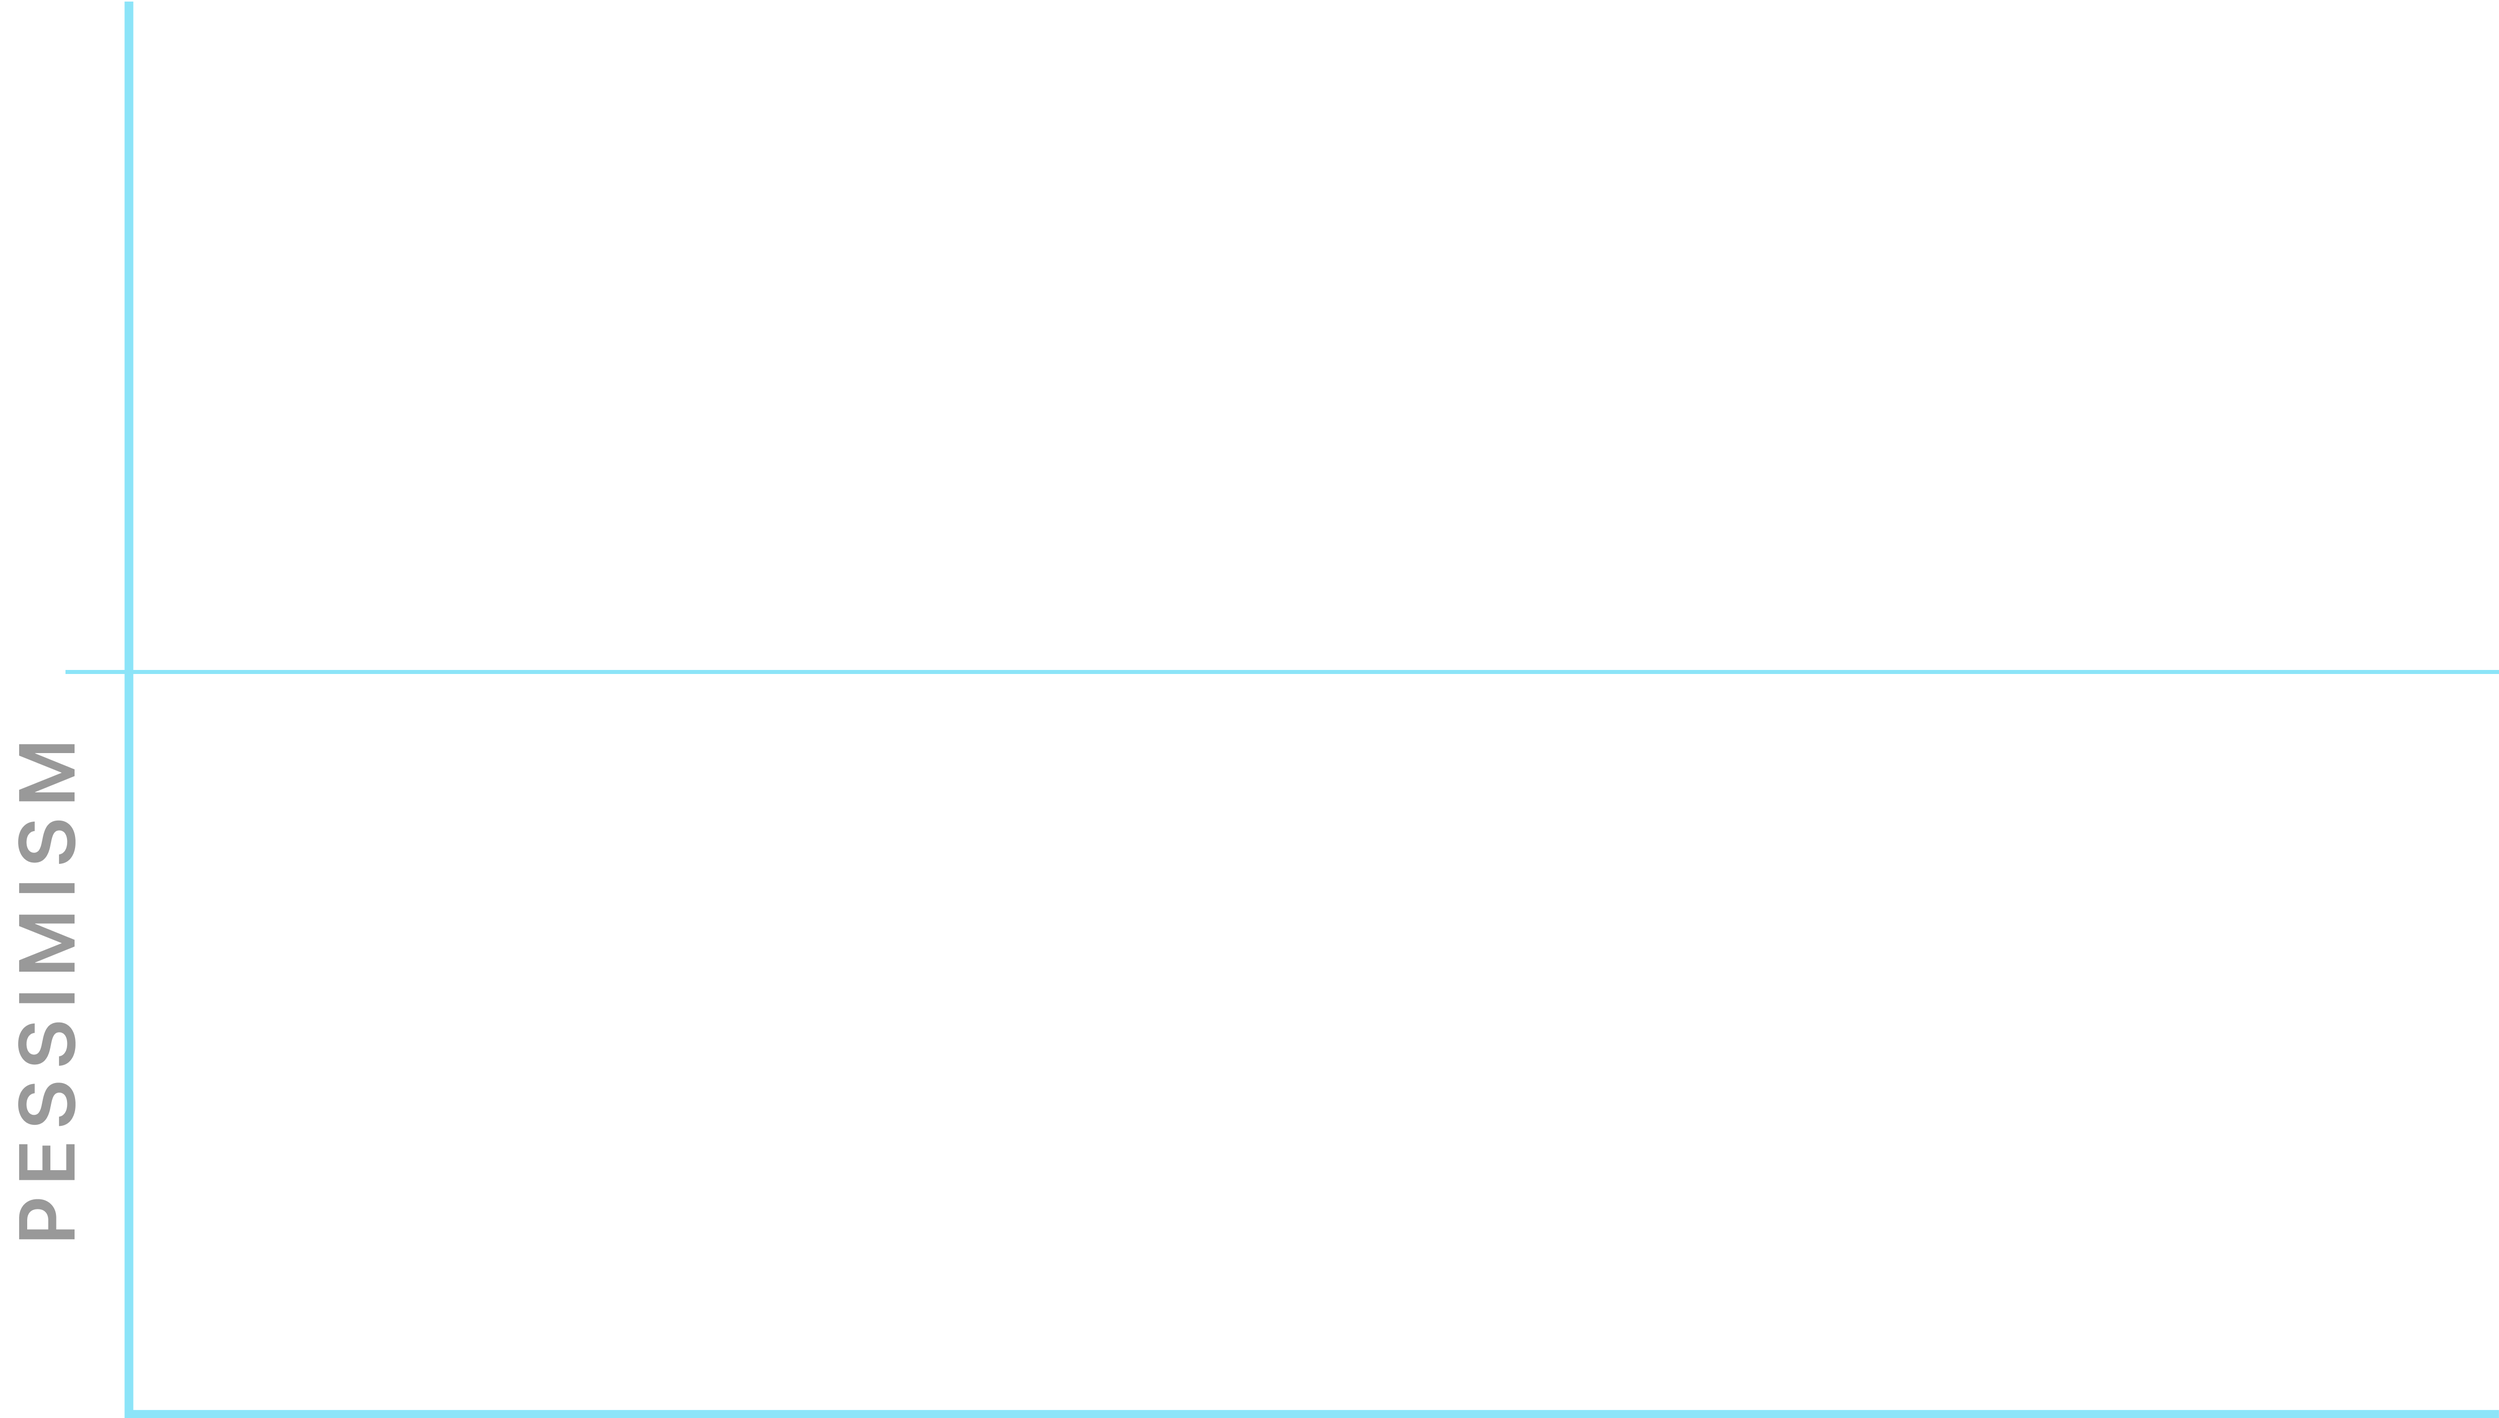
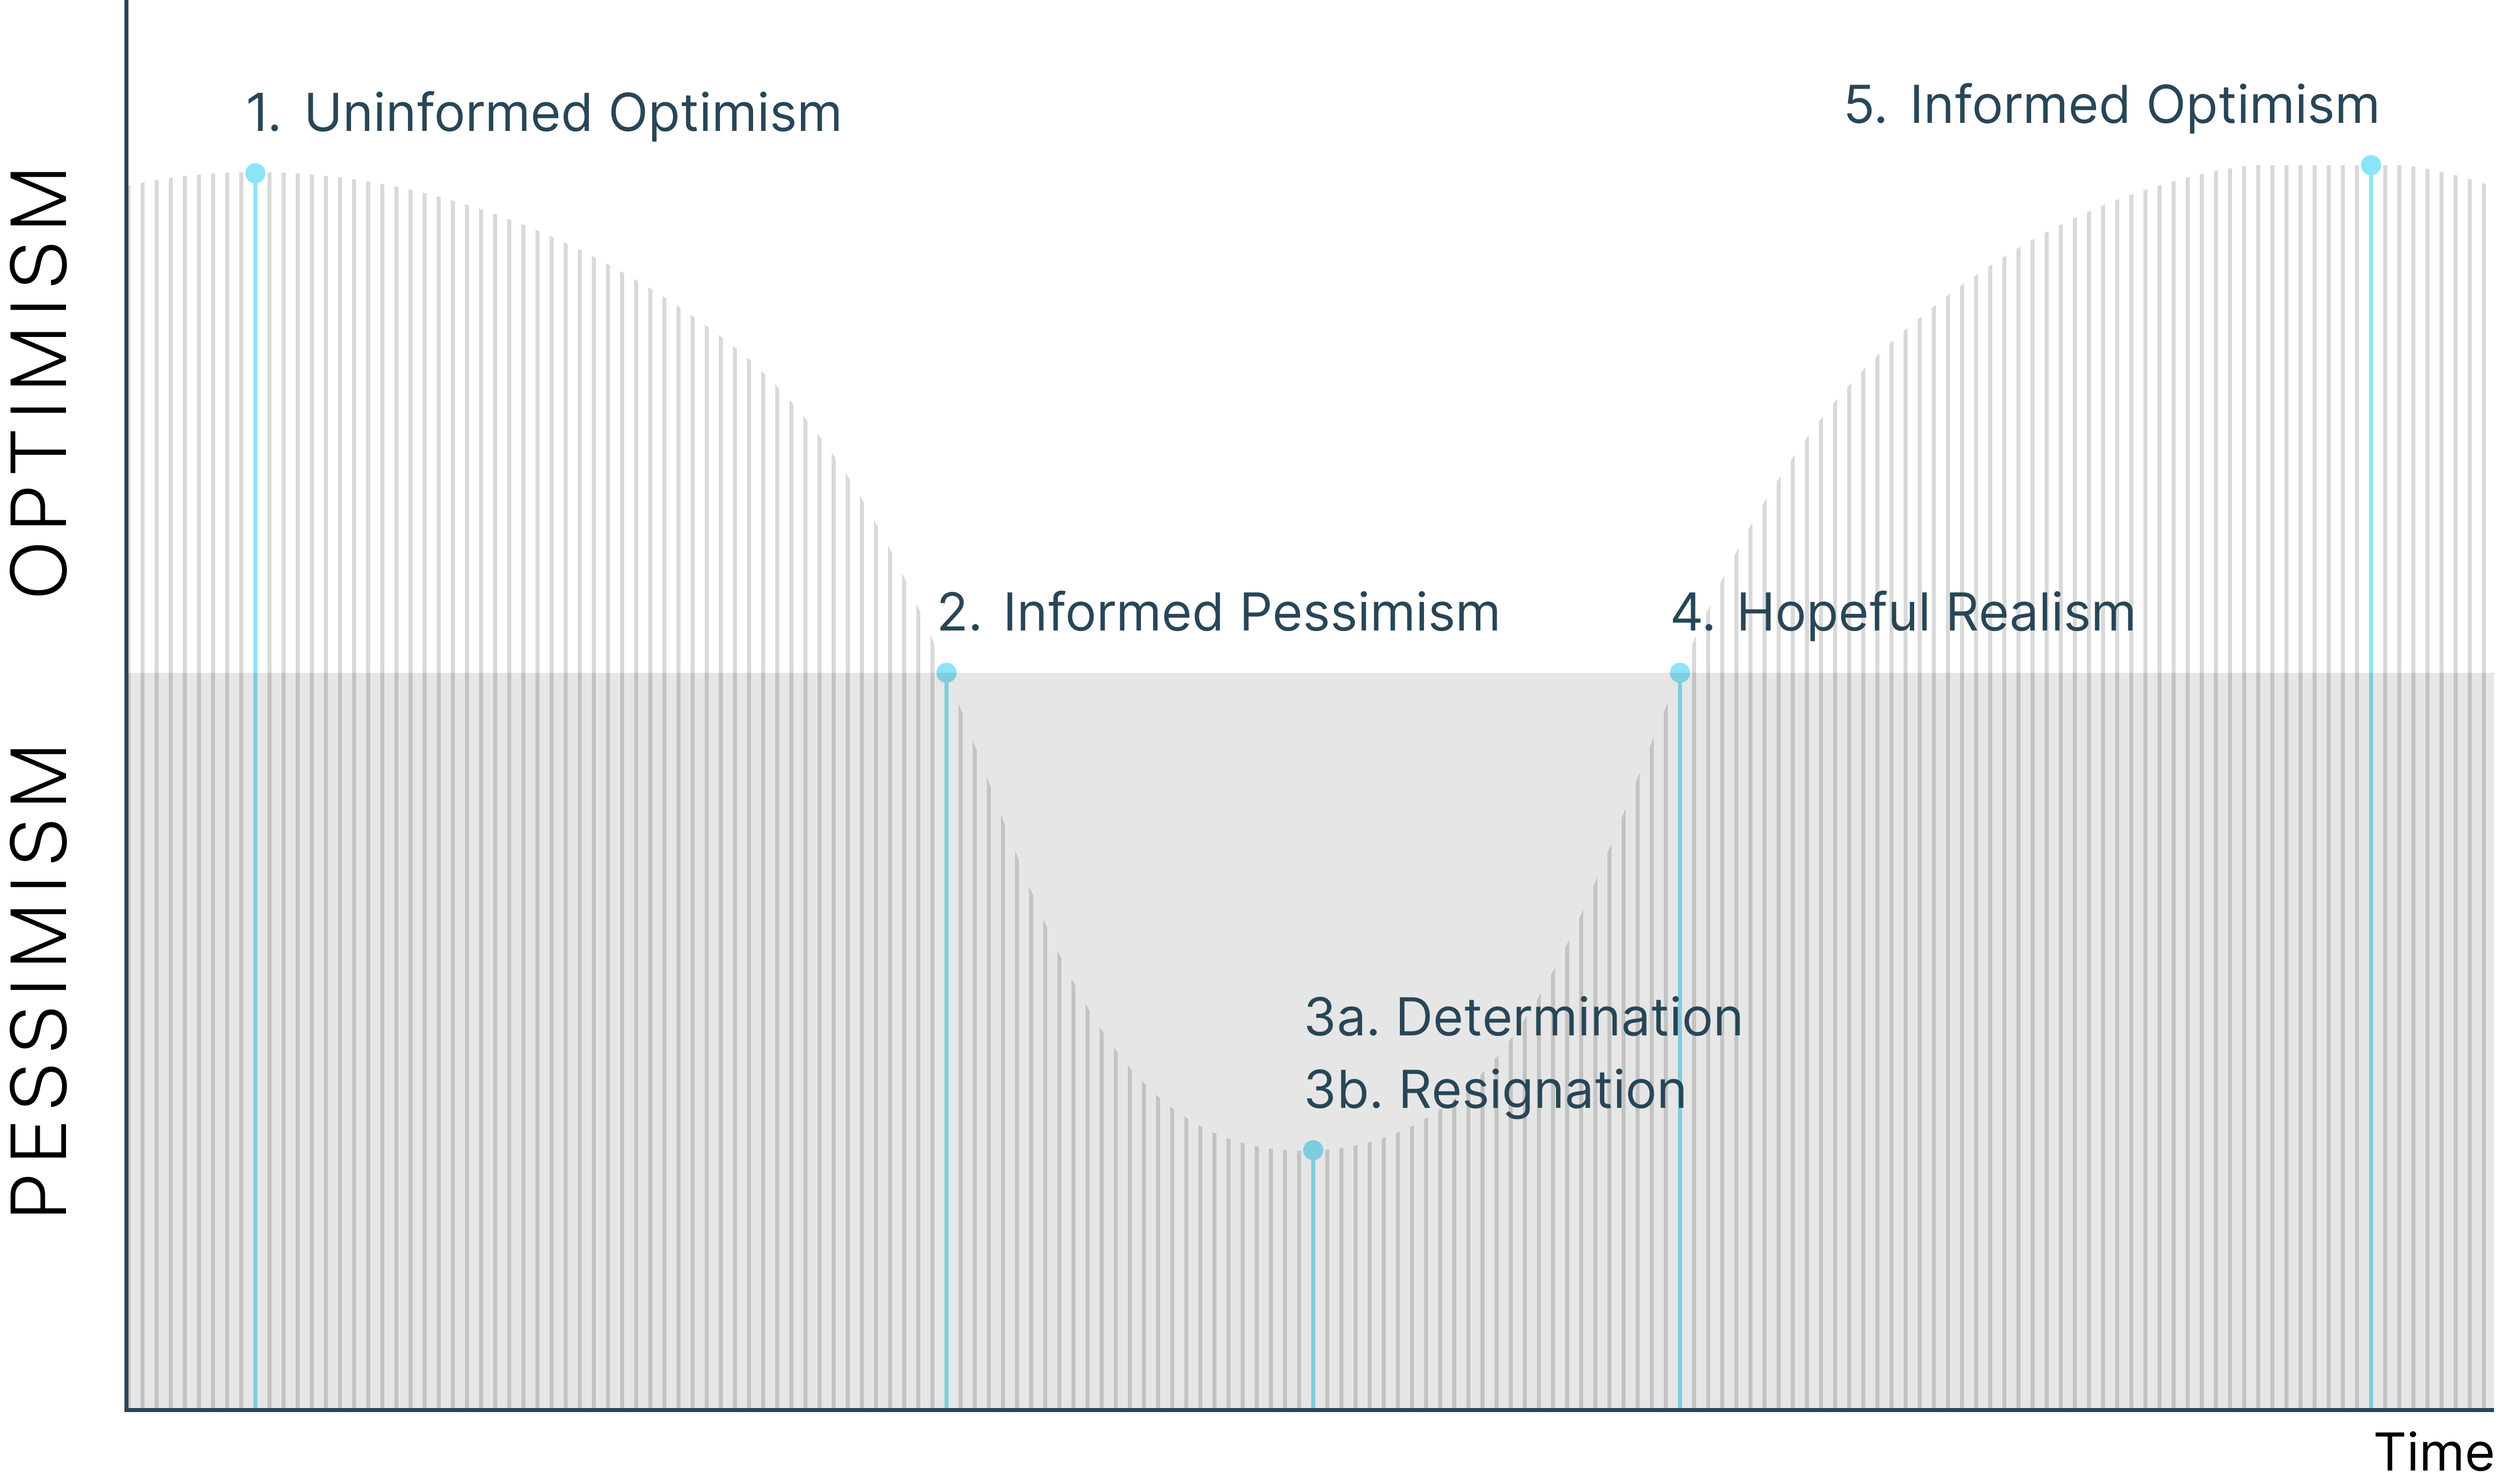
Commit

diff --git a/src/components/Main/Main.jsx b/src/components/Main/Main.jsx
@@ -1,5 +1,5 @@
 import React, { useState } from 'react';
-import { useOutletContext } from 'react-router-dom';
+import { useNavigate, useOutletContext } from 'react-router-dom';
 import devicesImg from '../../images/devices.png';
 import ShowMoreLess from './ShowMoreLess/ShowMoreLess';
 import chart from '../../images/chart.png';
@@ -8,6 +8,7 @@ import './Main.scss';
 const Main = () => {
   const [showLearningMore, setShowLearningMore] = useState(false);
   const [showJourneyMore, setShowJourneyMore] = useState(false);
+  const [showSuccessMore, setShowSuccessMore] = useState(false);
 
   const [showEducationMore, setShowEducationMore] = useState(false);
   const [showDisciplineMore, setShowDisciplineMore] = useState(false);
@@ -16,6 +17,8 @@ const Main = () => {
 
   const { whyRef, lessonsRef, pricingRef } = useOutletContext();
 
+  const navigate = useNavigate();
+
   return (
     <div className="main">
       <section className="slide-section">
@@ -23,7 +26,7 @@ const Main = () => {
           <div className="slide">
             <h1 className="slide__title">New to trading?</h1>
             <img src={devicesImg} alt="Devices" className="slide__image" />
-            <button className="slide__btn btn-light">Book a call</button>
+            <button className="slide__btn btn btn_transparent" onClick={() => navigate('/booking')}>Book a call</button>
           </div>
         </div>
       </section>
@@ -171,6 +174,7 @@ const Main = () => {
             </p>
             <ShowMoreLess showMore={showJourneyMore} setShowMore={setShowJourneyMore} />
             <div className="journey__additional">
+              <img src={chart} alt="Chart" className="journey__chart" />
               <ul className="journey__stages">
                 <li className="journey__stage">
                   <h3 className="journey__subtitle subtitle">1. Uninformed Optimism</h3>
@@ -385,6 +389,74 @@ const Main = () => {
                 </li>
               </ul>
             </div>
+          </div>
+        </div>
+      </section>
+      <section className="success-section">
+        <div className="container">
+          <div className={`success ${showSuccessMore ? 'expanded' : ''}`}>
+            <h2 className="success__title title">Success</h2>
+            <p className="success__text text">
+              To be successful in the financial markets you need two things; knowledge (based on the previously
+              described 4 areas of focus) and capital. The issue is that most lose their capital before they gain the
+              necessary knowledge to be successful.
+            </p>
+            <p className="success__text text">
+              There is an old saying that in trading there are only two rules, the first is to not lose money and the
+              second is to not forget rule number one. It is however impossible not to lose some money as no-one has a
+              crystal bowl and losses are essentially a cost of doing business, the key then is to keep the losses
+              small. This is done through a predefined risk-reward ratio which limits how much you risk on each trade in
+              order to protect your capital when the trade does not work out in your favour.
+            </p>
+            <ShowMoreLess showMore={showSuccessMore} setShowMore={setShowSuccessMore} />
+            <div className="success__info">
+              <p className="success__text text">
+                After my 25 years in the markets (and still standing) I have found trading to be a mix of common sense,
+                human psychology and a dash of art. It requires time, discipline, a plan and an basic understanding of
+                human psychology and game theory. Make sure to spend enough time on each side of the trade, both before
+                and after. Before, through proper filtering and analysis and scoring each trade probability through the
+                system you will learn. Only trade the trades that has a high enough probability to be profitable. Use
+                automation to keep your own psychology of fear and greed out of it. And after, log and review it and
+                make sure you learn something from each trade. Trading is learned in increments, so the target is to
+                spend enough time on each trade to build a deeper understanding of the forces at play. You will learn
+                how psychology plays an intricate part in trading. If you win, your greed kicks in, you feel fantastic,
+                and take bigger risks to win more faster until the next trade works against you. If you lose, you want
+                to take revenge and take bigger risks to regain what you lost until.. (yes, you guessed it) the next
+                trade works against you.
+              </p>
+              <p className="success__text text">
+                A thing to understand is that trading in reality is a game where everyone plays against everyone else.
+                If your broker recommends you to buy a certain stock it is because he has inventory of it or gets a
+                larger commission to sell that specific stock. And if he recommends you to sell, it is because he knows
+                he can sell it someone else for a higher price. In the last years YouTube is full of self-exclaimed
+                tubers who talk about certain stocks or sectors like they are qualified experts when in reality most of
+                them have less than $ 1,000 invested in it themselves.
+              </p>
+              <p className="success__text text">
+                Another imminent danger is to analyse to a point where common sense disappears. An interesting read on
+                this is the first know market bubble, the tulip mania in the Netherlands in 1634 to 1637.
+              </p>
+              <p className="success__text text">
+                When learning to fly it is required to memorize emergency checklists and the first thing on the
+                checklist for “In air engine failure” is actually to “fly the airplane”. This sounds almost stupid, but
+                the reality is that many lives have been lost due to pilots becoming too focused on the instruments
+                inside cockpit and not to navigate the plane to a safe place to land. Trading is a game of longevity.
+                Follow the principles you will learn here and you will stay alive and gradually accumulate both
+                knowledge and capital.
+              </p>
+            </div>
+          </div>
+        </div>
+      </section>
+      <section className="talk-section">
+        <div className="container">
+          <div className="talk">
+            <h2 className="talk__title title">Interested? Let’s talk</h2>
+            <p className="talk__text text">
+              The objective of the introductory call is to have a quick meet-and-greet, assess compatibility, and talk
+              about backgrounds, motivations, and what to expect moving forward.
+            </p>
+            <button className="talk__btn btn btn_light" onClick={() => navigate('/booking')}>Book a call</button>
           </div>
         </div>
       </section>

diff --git a/src/components/App/App.scss b/src/components/App/App.scss
@@ -3,18 +3,15 @@
   margin: 0 auto;
 }
 
-.btn-light {
+.btn {
   border-radius: 2px;
-  border: 1px solid rgba(223, 223, 223, 0.8);
-  background: rgba(216, 216, 216, 0.35);
-  box-shadow: 3px 6px 15px -1px rgba(0, 0, 0, 0.1);
-  cursor: pointer;
-  padding: 20px 40px;
-  color: #284657;
   font-size: 18px;
   font-weight: 600;
-  line-height: 130%;
+  height: 63px;
   letter-spacing: 0.36px;
+  cursor: pointer;
+  padding: 20px 40px;
+  transition: all 0.3s ease;
 
   &:active,
   &:focus,
@@ -23,46 +20,17 @@
   }
 }
 
-.solid-button {
-  padding: 0 30px;
-  height: 55px;
-  background: var(--third-color);
-  color: var(--second-color);
-  font-family: 'Inter', sans-serif;
-  font-weight: 500;
-  line-height: 55px;
-  border: 0;
-  transition: all 0.3s ease;
-
-  &:hover {
-    box-shadow: 2px 4px 30px 4px rgba(255, 255, 255, 0.2);
-
-    .light & {
-      box-shadow: 2px 4px 30px 4px rgba(47, 115, 148, 0.2);
-    }
-  }
-
-  &:active,
-  &:focus,
-  &:focus-visible {
-    background: linear-gradient(0deg, rgba(208, 208, 208, 0.4) 0%, rgba(208, 208, 208, 0.4) 100%), #fff;
-
-    .light & {
-      background: linear-gradient(0deg, rgba(0, 0, 0, 0.2) 0%, rgba(0, 0, 0, 0.2) 100%), #2f7394;
-    }
-  }
+.btn_transparent {
+  border: 1px solid #284657;
+  background: rgba(255, 255, 255, 0.35);
+  box-shadow: 3px 6px 15px -1px rgba(0, 0, 0, 0.1);
+  color: #284657;
 }
 
-.transparent-button {
-  padding: 0 30px;
-  height: 54px;
-  background-color: transparent;
-  color: var(--third-color);
-  font-family: 'Helvetica', sans-serif;
-  font-weight: 700;
-  line-height: 54px;
-  border: 2px solid var(--third-color);
-  box-shadow: var(--box-shadow-2);
+.btn_light {
+  border: none;
+  background: #fff;
+  color: #284657;
 }
 
 .hidden {

diff --git a/src/components/Main/Main.scss b/src/components/Main/Main.scss
@@ -36,7 +36,7 @@
   flex-direction: column;
   align-items: center;
   position: relative;
-  padding: 120px 100px 45px 100px;
+  padding: 90px 100px 49px 100px;
 
   &__title {
     color: #274455;
@@ -44,7 +44,7 @@
     font-weight: 500;
     line-height: 70%;
     letter-spacing: -1.2px;
-    margin-bottom: 135px;
+    margin-bottom: 140px;
   }
 
   &__image {
@@ -52,9 +52,11 @@
   }
 
   &__btn {
-    position: absolute;
+    position: fixed;
     right: 100px;
-    bottom: 133px;
+    bottom: 100px;
+    z-index: 1;
+    backdrop-filter: blur(10px);
   }
 }
 
@@ -216,6 +218,11 @@
     }
   }
 
+  &__chart {
+    width: 100%;
+    margin-bottom: 130px;
+  }
+
   &__stage {
     margin-bottom: 72px;
 
@@ -262,5 +269,49 @@
     .expanded-item & {
       max-height: 2000px;
     }
+  }
+}
+
+.success {
+  padding: 100px 100px 83px;
+  position: relative;
+
+  &-section {
+    background: #d8d8d8;
+  }
+
+  &__title {
+    color: #284657;
+  }
+
+  &__text {
+    margin-bottom: 33px;
+  }
+
+  &__info {
+    max-height: 0;
+    overflow: hidden;
+    transition: max-height 0.4s ease;
+
+    .expanded & {
+      max-height: 1000px;
+    }
+  }
+}
+
+.talk {
+  padding: 100px;
+
+  &-section {
+    background: #8ce4f8;
+  }
+
+  &__title {
+    color: #284657;
+  }
+
+  &__text {
+    color: #121212;
+    margin-bottom: 42px;
   }
 }

diff --git a/src/components/Booking/Booking.jsx b/src/components/Booking/Booking.jsx
@@ -1,0 +1,22 @@
+import React from 'react';
+import './Booking.scss';
+
+const Booking = () => {
+  return (
+    <section className='booking-section'>
+      <div className="container">
+        <div className="booking">
+          <h2 className="booking__title title">Book a call</h2>
+          <p className="booking__text text">
+            The objective of the introductory call is to have a quick meet-and-greet, assess compatibility, and talk about backgrounds, motivations, and what to expect moving forward
+          </p>
+          <h3 className="booking__subtitle">
+            1. Select date and time
+          </h3>
+        </div>
+      </div>
+    </section>
+  );
+};
+
+export default Booking;

diff --git a/src/components/App/App.jsx b/src/components/App/App.jsx
@@ -2,6 +2,7 @@ import React from 'react';
 import { BrowserRouter, Navigate, Route, Routes } from 'react-router-dom';
 import Header from '../Header/Header';
 import Main from '../Main/Main';
+import Booking from '../Booking/Booking';
 import './App.scss';
 
 const App = () => (
@@ -9,6 +10,7 @@ const App = () => (
     <Routes>
       <Route path="/" element={<Header />}>
         <Route index element={<Main />} />
+        <Route path="booking" element={<Booking />} />
       </Route>
       <Route path="*" element={<Navigate to="/" />} />
     </Routes>

diff --git a/src/components/Header/Header.scss b/src/components/Header/Header.scss
@@ -6,12 +6,12 @@
   display: flex;
   justify-content: center;
   align-items: center;
-  padding: 80px 100px;
+  padding: 40px 100px;
 
   &__label {
-    font-size: 22px;
+    font-size: 20px;
     cursor: pointer;
-    margin: 0 147px 0 7px;
+    margin-right: 262px;
   }
 
   &__links {
@@ -24,7 +24,7 @@
     cursor: pointer;
 
     &:last-of-type {
-      margin-right: 294px;
+      margin-right: 390px;
     }
   }
 }

diff --git a/src/components/Booking/Booking.scss b/src/components/Booking/Booking.scss
@@ -1,0 +1,20 @@
+.booking {
+  padding: 40px 100px 80px;
+  &__title {
+    color: #284657;
+  }
+
+  &__text {
+    color: #121212;
+    line-height: 130%;
+    letter-spacing: -0.66px;
+    margin-bottom: 44px;
+  }
+
+  &__subtitle {
+    color: #121212;
+    font-size: 30px;
+    font-weight: 600;
+    line-height: 70%
+  }
+}
